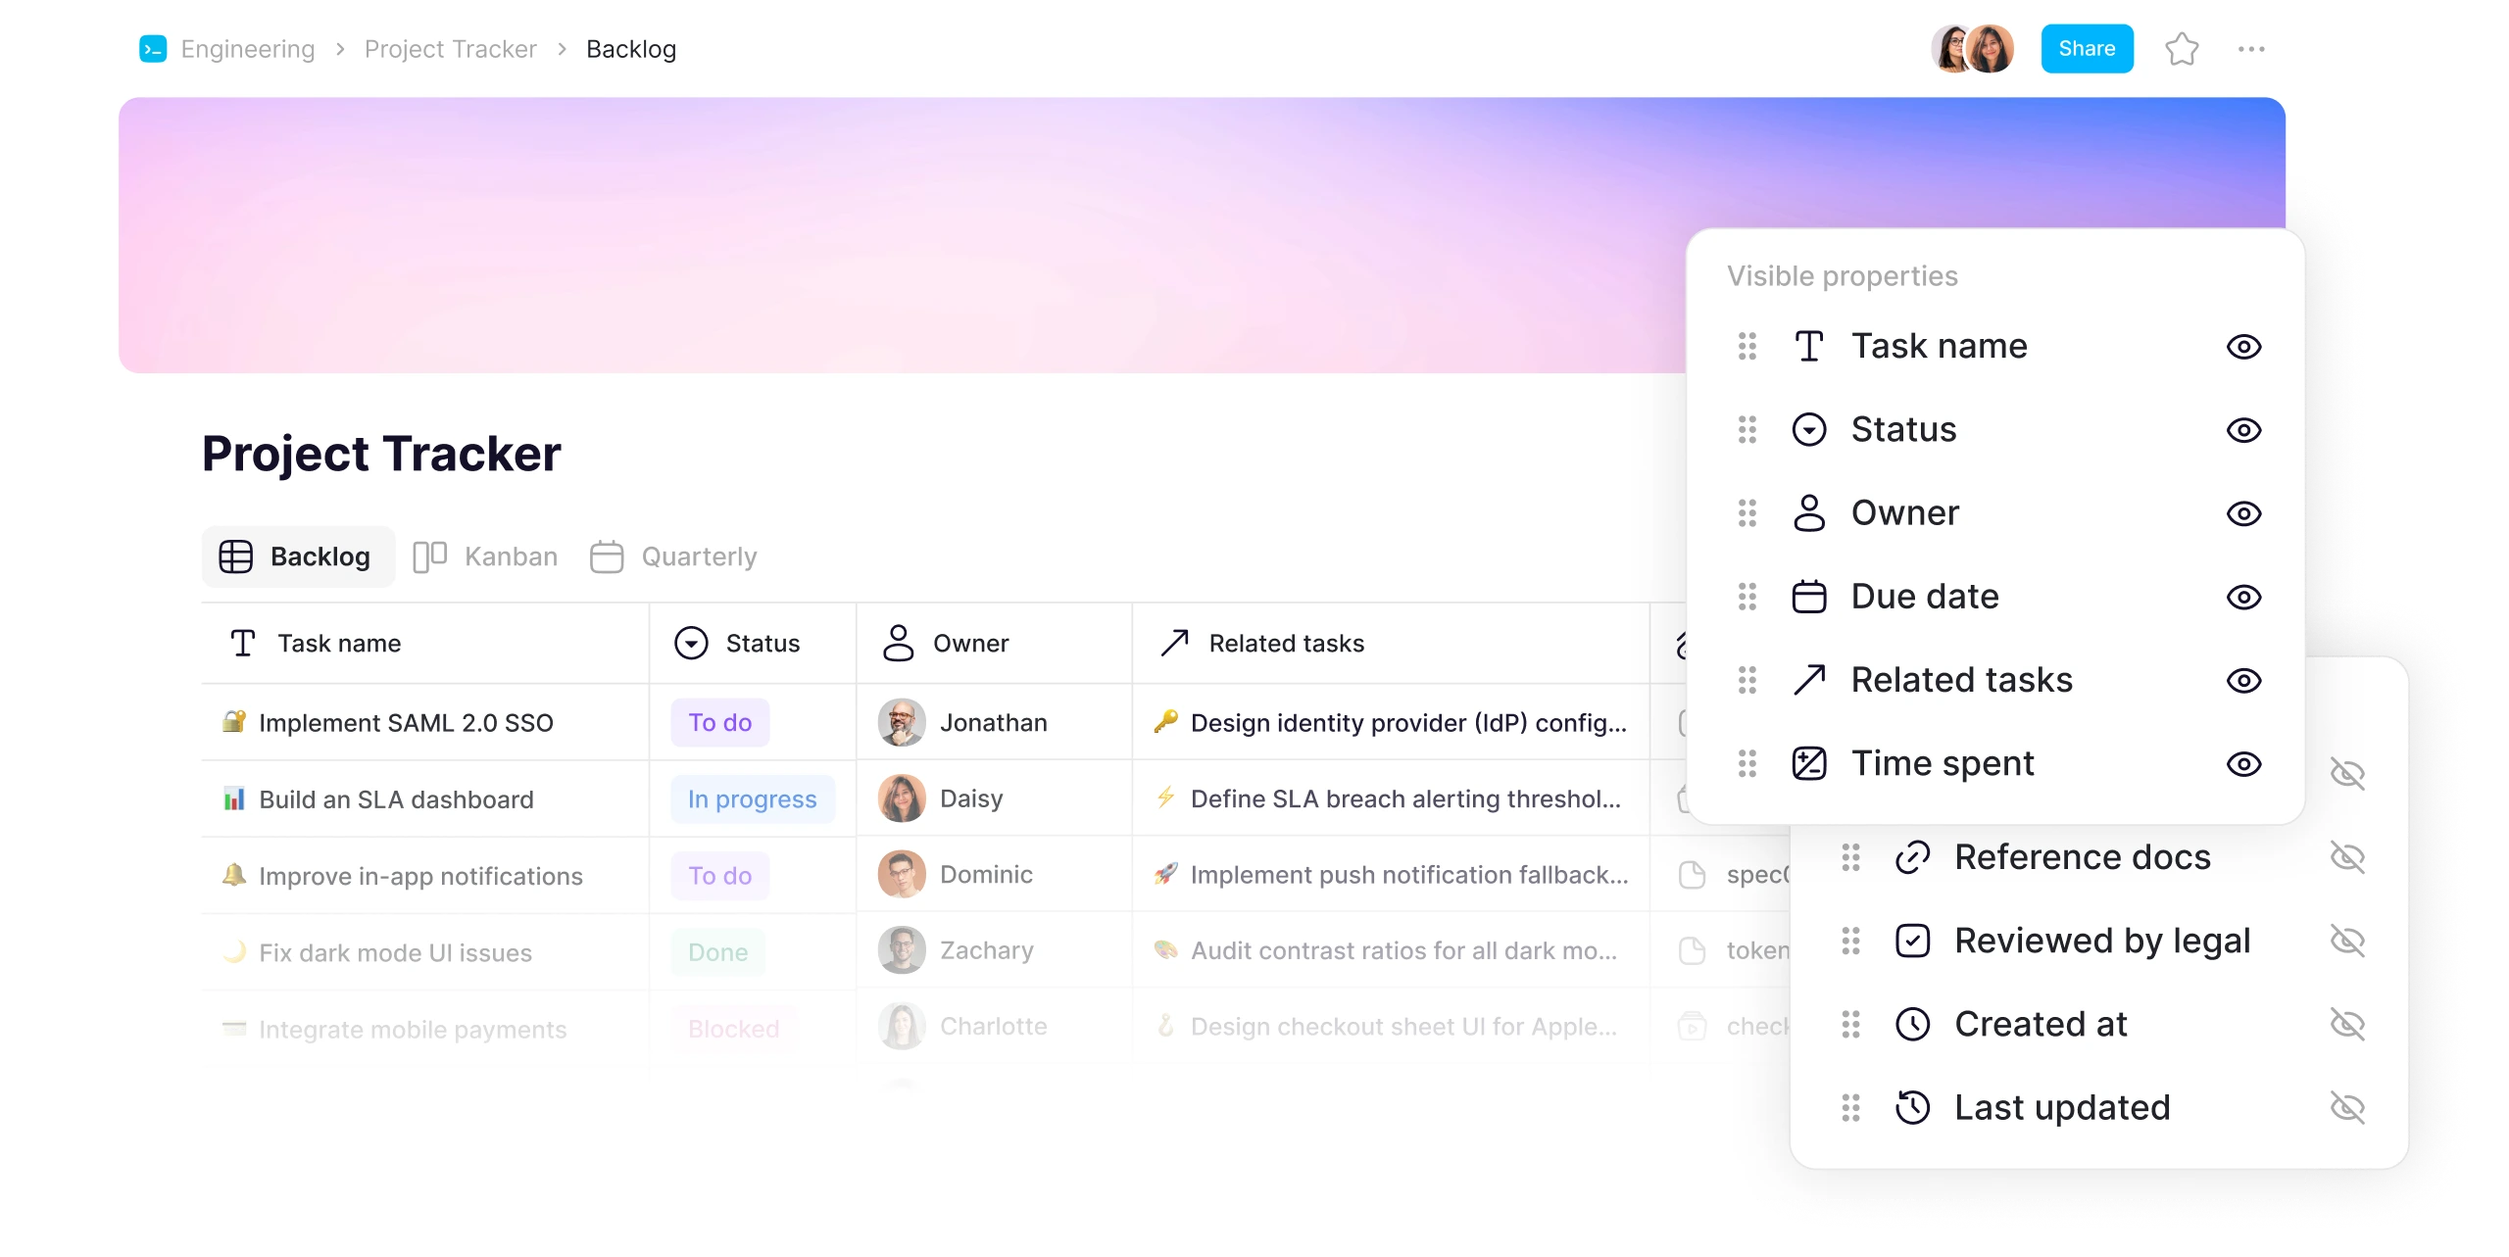
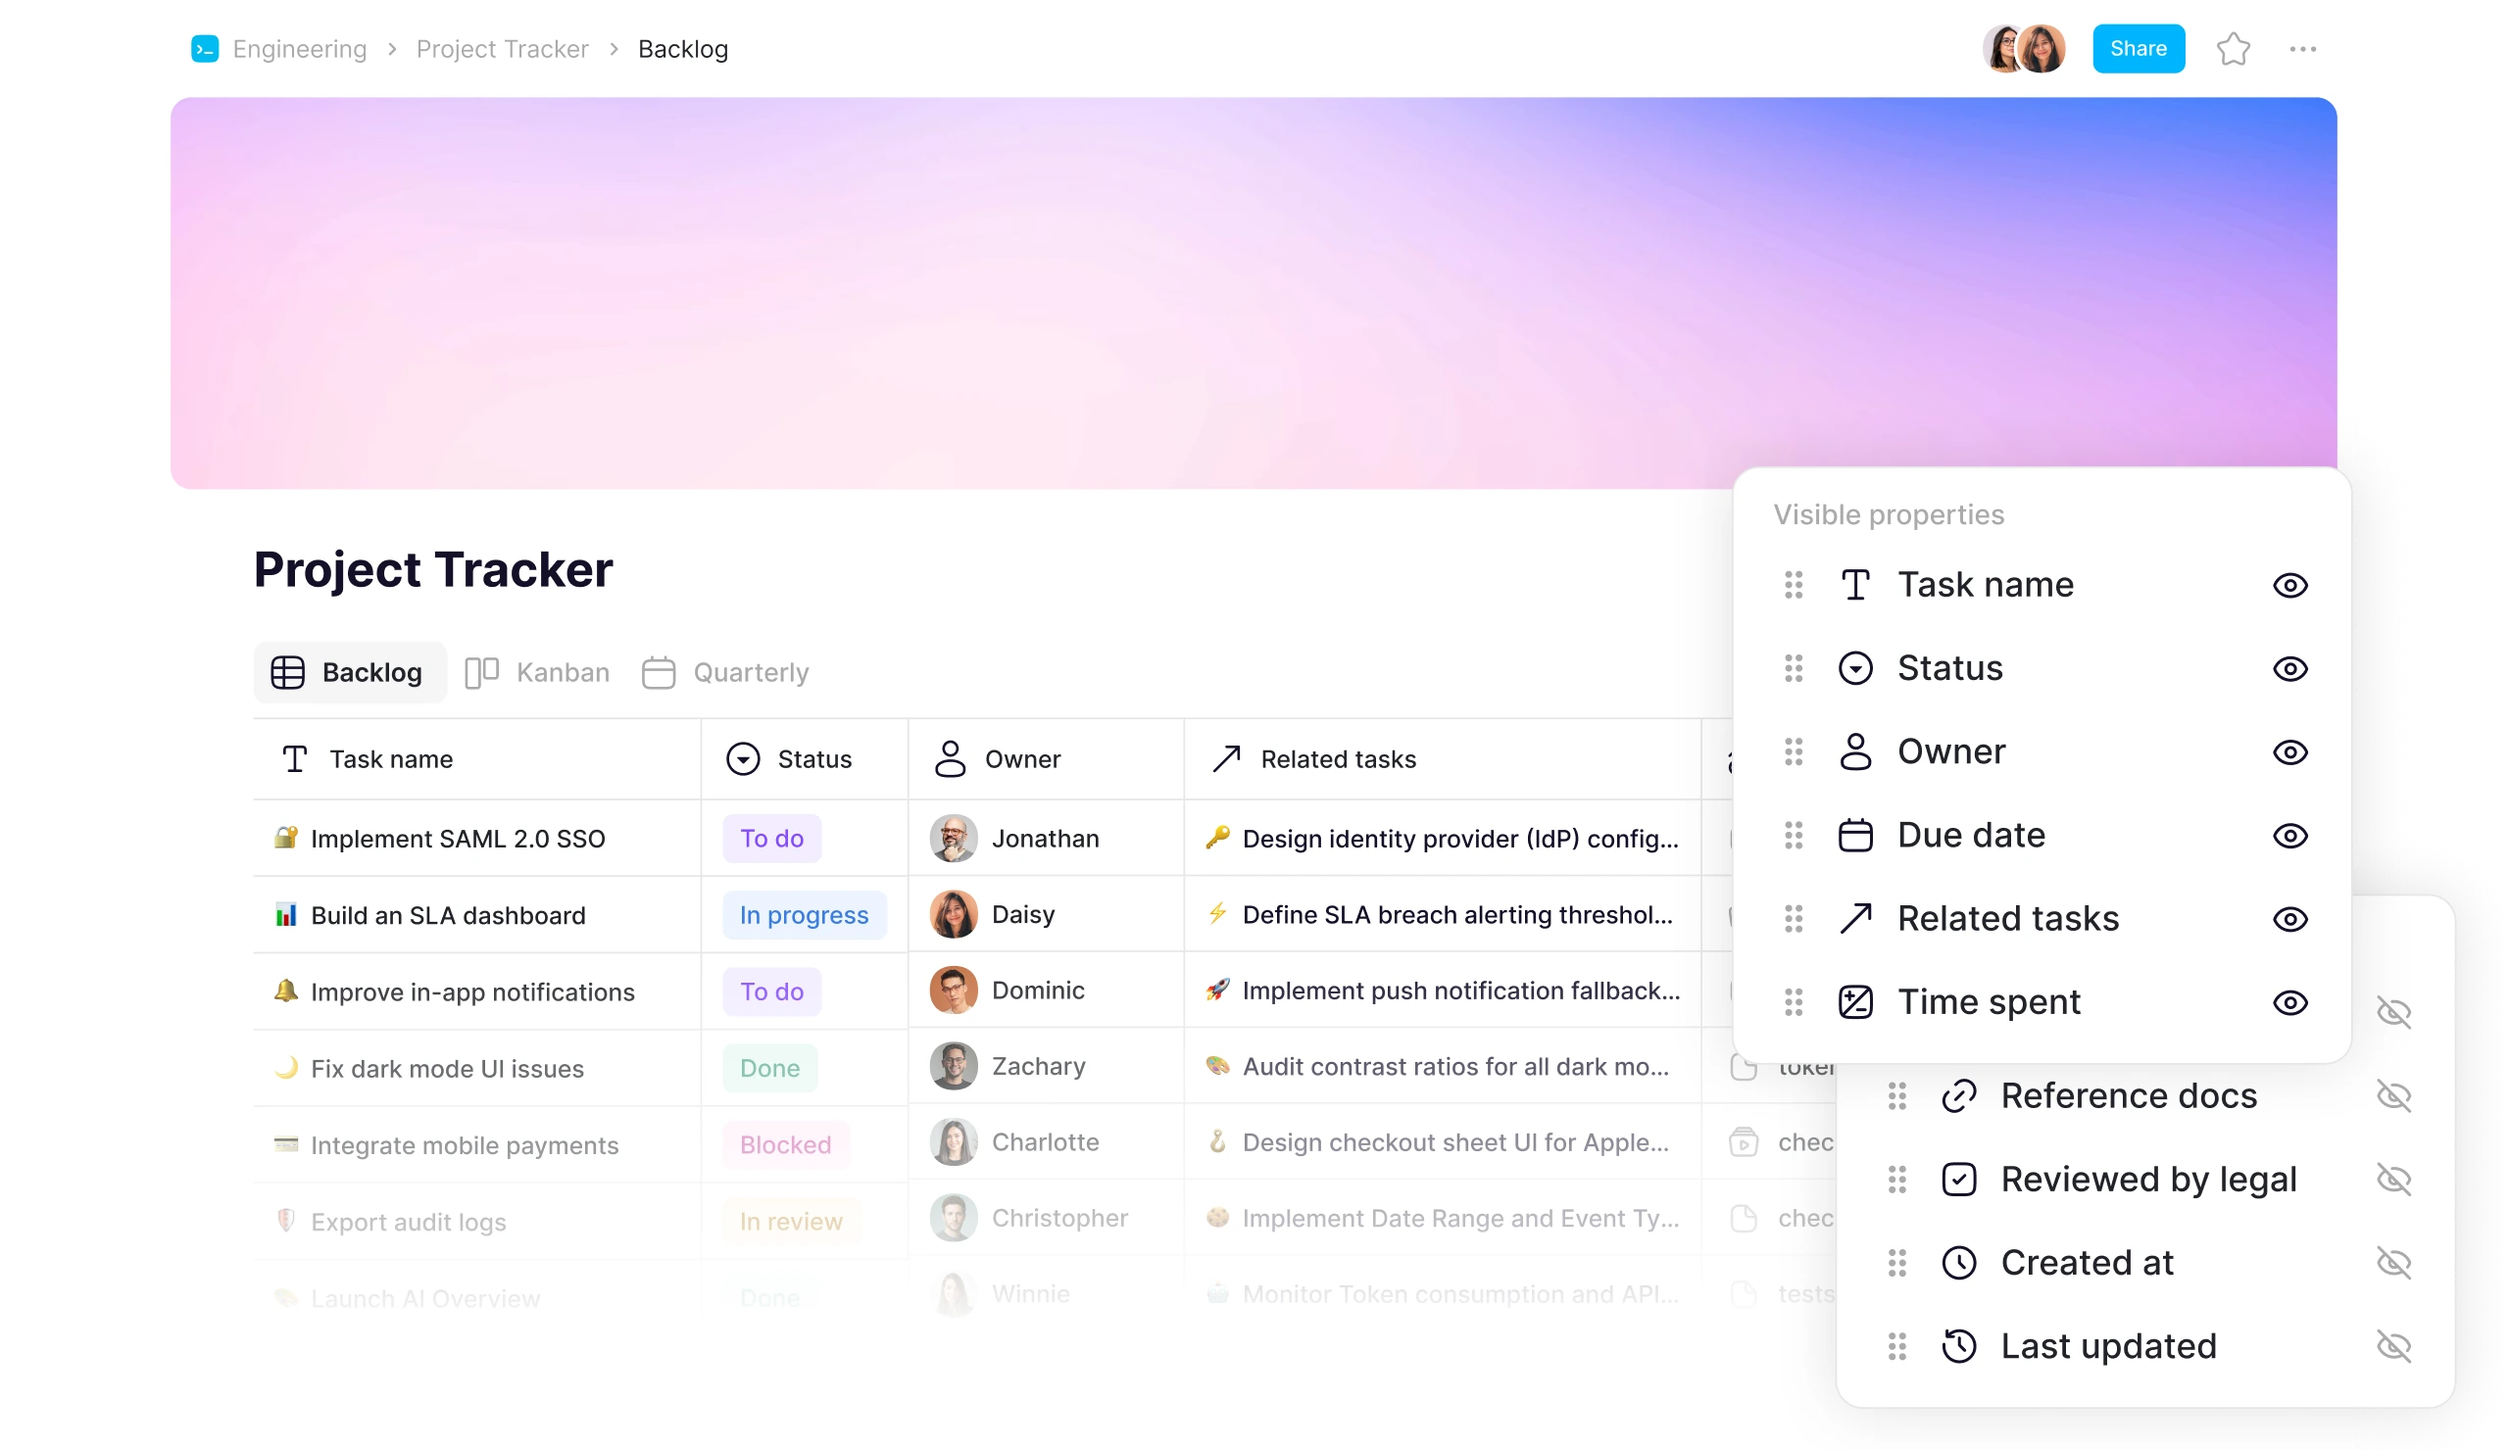
chore: update the backlog imge

diff --git a/components/product/platform-section.tsx b/components/product/platform-section.tsx
@@ -46,7 +46,7 @@ export function PlatformCard({ heading, subtitle, icon, image }: PlatformCardPro
         </div>
       </div>
 
-      <div className="relative min-h-[440px] w-1/2 overflow-hidden p-6 max-md:min-h-[280px] max-md:w-full max-md:p-2 max-md:pt-0 max-md:pb-4">
+      <div className="relative min-h-[440px] w-1/2 overflow-hidden p-6 max-md:min-h-[280px] max-md:w-full max-md:p-2 max-md:pt-0">
         <Image
           alt={heading.top + ' ' + heading.bottom}
           className="h-full w-full rounded-xl object-cover"
